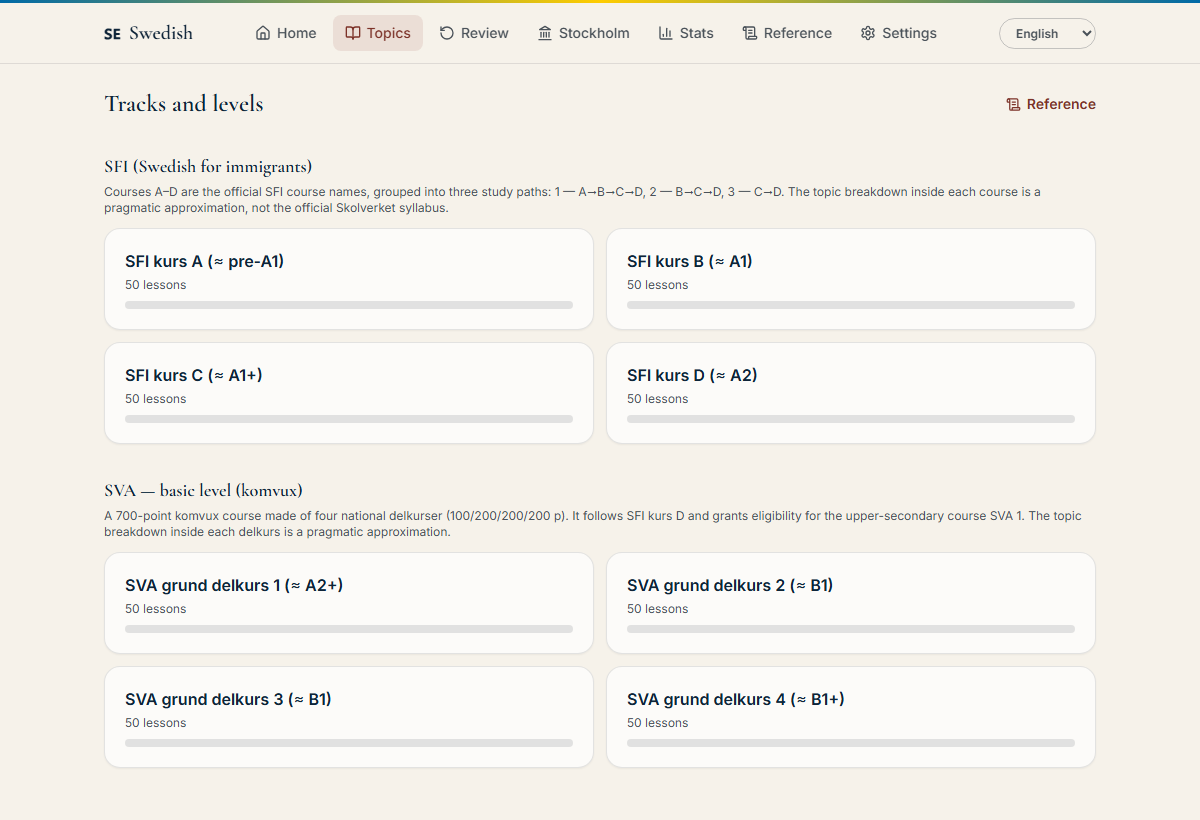
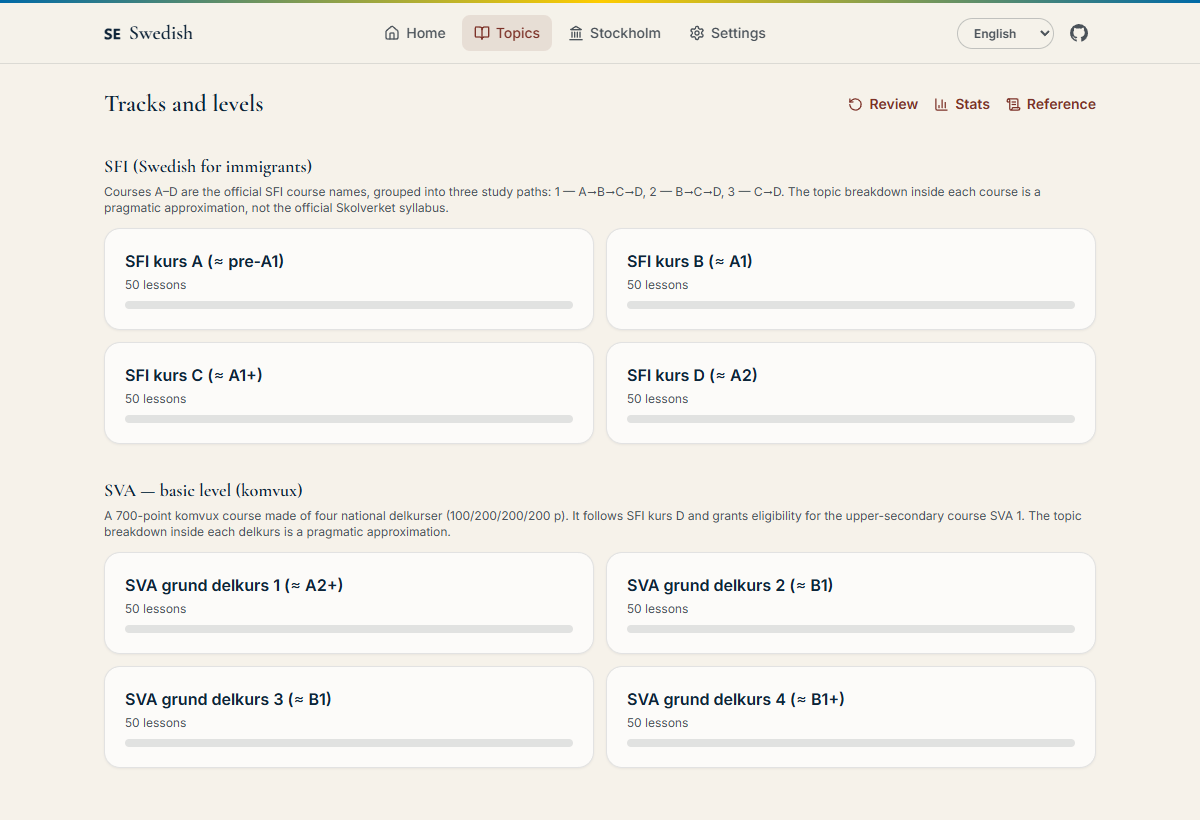
Update nav

diff --git a/scripts/screenshots.ts b/scripts/screenshots.ts
@@ -18,11 +18,11 @@ import { chromium, type Page } from 'playwright-core';
 import { BUILDING_PRICES, ERA_UNLOCK_XP } from '../src/city/economy';
 
 /**
- * `npm run screenshots` does everything; `-- city` or `-- eras` redoes only that half, which
- * matters because the citizens are mid-walk in every shot — re-running the whole set rewrites
- * ten PNGs that differ only in where the little figures happen to be standing.
+ * `npm run screenshots` does everything; `-- pages` or `-- eras` redoes only that half, which
+ * matters because the citizens are mid-walk in every era shot — re-running the whole set
+ * rewrites ten PNGs that differ only in where the little figures happen to be standing.
  */
-const only = process.argv[2] as 'city' | 'eras' | undefined;
+const only = process.argv[2] as 'pages' | 'eras' | undefined;
 
 const root = join(dirname(fileURLToPath(import.meta.url)), '..');
 const outDir = join(root, 'docs', 'screenshots');
@@ -114,7 +114,7 @@ async function main() {
     await page.goto(`${BASE}/#/city`, { waitUntil: 'networkidle' });
     await settle(page);
 
-    for (const era of only === 'city' ? [] : [...eras].sort((a, b) => a.order - b.order)) {
+    for (const era of only === 'pages' ? [] : [...eras].sort((a, b) => a.order - b.order)) {
       await page.getByRole('button', { name: era.name.en, exact: true }).click();
       await settle(page);
       await page.locator('.city-scene').screenshot({ path: join(outDir, `city-${era.id}.png`) });
@@ -131,6 +131,16 @@ async function main() {
       await page.waitForTimeout(200);
       await page.screenshot({ path: join(outDir, 'city.png') });
       console.log('wrote city.png');
+
+      // The topics list, shown with no lesson progress — its own page so it can have its own
+      // height. (`quiz.png`, the third README shot, still has to be taken by hand: it needs a
+      // quiz run in a particular state rather than a route and a save.)
+      const tracks = await browser.newPage({ viewport: { width: 1200, height: 820 }, deviceScaleFactor: 1 });
+      await tracks.goto(`${BASE}/#/tracks`, { waitUntil: 'networkidle' });
+      await tracks.waitForTimeout(400);
+      await tracks.screenshot({ path: join(outDir, 'tracks.png') });
+      await tracks.close();
+      console.log('wrote tracks.png');
     }
   } finally {
     await browser.close();

diff --git a/src/components/layout/AppShell.tsx b/src/components/layout/AppShell.tsx
@@ -1,14 +1,6 @@
 import { Suspense, useEffect } from 'react';
 import { NavLink, Outlet } from 'react-router-dom';
-import {
-  BarChart3,
-  BookOpen,
-  Home,
-  Landmark,
-  RotateCcw,
-  ScrollText,
-  Settings as SettingsIcon,
-} from 'lucide-react';
+import { BookOpen, Home, Landmark, Settings as SettingsIcon } from 'lucide-react';
 import { useT } from '@/i18n';
 import { useAppStore } from '@/store/appStore';
 import { useCloudSync } from '@/store/useCloudSync';
@@ -77,15 +69,16 @@ function GithubMark({ className }: { className?: string }) {
 
 const REPO_URL = 'https://github.com/gray0072/swedish';
 
+/**
+ * The core loop, and nothing else: seven items overflowed the header row, and the three that
+ * are not part of the loop — review, stats, reference — now live on the Topics page and at the
+ * foot of the Home page instead (`secondaryNav.ts`). The same four items serve the desktop row
+ * and the mobile bottom bar.
+ */
 const navItems = [
   { to: '/', icon: Home, key: 'nav.home' as const, end: true },
   { to: '/tracks', icon: BookOpen, key: 'nav.tracks' as const, end: false },
-  { to: '/review', icon: RotateCcw, key: 'nav.review' as const, end: false },
   { to: '/city', icon: Landmark, key: 'nav.city' as const, end: false },
-  // Secondary destinations, not part of the core loop — desktop nav only so the mobile
-  // bottom bar (prime real estate) stays reserved for the five primary destinations.
-  { to: '/stats', icon: BarChart3, key: 'nav.stats' as const, end: false, desktopOnly: true },
-  { to: '/reference', icon: ScrollText, key: 'nav.reference' as const, end: false, desktopOnly: true },
   { to: '/settings', icon: SettingsIcon, key: 'nav.settings' as const, end: false },
 ];
 
@@ -148,9 +141,7 @@ export default function AppShell() {
           </div>
         </div>
         <nav className="flex justify-between border-t border-granite/10 sm:hidden">
-          {navItems
-            .filter((item) => !item.desktopOnly)
-            .map(({ to, icon: Icon, key, end }) => (
+          {navItems.map(({ to, icon: Icon, key, end }) => (
             <NavLink
               key={to}
               to={to}

diff --git a/src/components/city/BuildingCard.tsx b/src/components/city/BuildingCard.tsx
@@ -11,7 +11,14 @@ import { buildingCostAt } from '@/city/economy';
 import { PerkLine } from './PerkDisplay';
 import { playBuild, playUpgrade } from '@/lib/sound';
 
-export default function BuildingCard({ building }: { building: Building }) {
+/**
+ * `preview` is the read-only variant shown for an era the learner has not unlocked yet
+ * (CityPage): same name, description and perk, but nothing to press — the cost is stated as
+ * plain text, because a button that can only ever be disabled reads as broken rather than as
+ * locked. Requirements still show: half of what makes a future era interesting is seeing the
+ * order things have to be built in.
+ */
+export default function BuildingCard({ building, preview = false }: { building: Building; preview?: boolean }) {
   const t = useT();
   const lang = useLanguage();
   const wallet = useWallet();
@@ -41,7 +48,24 @@ export default function BuildingCard({ building }: { building: Building }) {
       )}
       <PerkLine perk={building.perk} level={level} />
 
-      {missingRequirement ? (
+      {preview ? (
+        <div className="mt-1 space-y-1 text-xs text-granite/80 dark:text-birch/50">
+          <p className="font-semibold">
+            {t('city.cost')}: {formatNumber(cost)} 🪙
+            {building.maxLevel > 1 && (
+              <span className="font-normal">
+                {' '}
+                · {t('city.maxLevel')} {building.maxLevel}
+              </span>
+            )}
+          </p>
+          {missingRequirement && (
+            <p>
+              {t('city.requires')}: {resolveLocalized(getBuilding(missingRequirement)?.name, lang)}
+            </p>
+          )}
+        </div>
+      ) : missingRequirement ? (
         <p className="mt-1 text-xs text-granite/70 dark:text-birch/40">
           {t('city.requires')}: {resolveLocalized(getBuilding(missingRequirement)?.name, lang)}
         </p>

diff --git a/src/pages/TracksPage.tsx b/src/pages/TracksPage.tsx
@@ -1,6 +1,6 @@
 import { Link } from 'react-router-dom';
-import { ScrollText } from 'lucide-react';
 import { useT } from '@/i18n';
+import { SECONDARY_NAV } from '@/components/layout/secondaryNav';
 import { useLanguage } from '@/store/settings';
 import { getTracks, getLessonsForLevel } from '@/content/registry';
 import { resolveLocalized } from '@/content/schema';
@@ -15,15 +15,23 @@ export default function TracksPage() {
 
   return (
     <div className="space-y-8">
-      <div className="flex items-center justify-between">
+      {/* Review, stats and the reference used to be header tabs; the header could not hold
+          seven of them, so they live here — next to the reference link that was already here
+          (`secondaryNav.ts`). */}
+      <div className="flex flex-wrap items-center justify-between gap-x-4 gap-y-2">
         <h1 className="text-2xl font-semibold">{t('tracks.title')}</h1>
-        <Link
-          to="/reference"
-          className="flex items-center gap-1.5 text-sm font-semibold text-falu hover:underline dark:text-gold"
-        >
-          <ScrollText size={15} aria-hidden="true" />
-          {t('tracks.referenceLink')}
-        </Link>
+        <nav className="flex flex-wrap items-center gap-x-4 gap-y-1">
+          {SECONDARY_NAV.map(({ to, icon: Icon, key }) => (
+            <Link
+              key={to}
+              to={to}
+              className="flex items-center gap-1.5 text-sm font-semibold text-falu hover:underline dark:text-gold"
+            >
+              <Icon size={15} aria-hidden="true" />
+              {t(key)}
+            </Link>
+          ))}
+        </nav>
       </div>
       {tracks.map((track) => (
         <section key={track.id}>

diff --git a/src/pages/HomePage.tsx b/src/pages/HomePage.tsx
@@ -1,6 +1,7 @@
 import { Link } from 'react-router-dom';
 import { Landmark, RotateCcw } from 'lucide-react';
 import { useT } from '@/i18n';
+import { SECONDARY_NAV } from '@/components/layout/secondaryNav';
 import { useLanguage } from '@/store/settings';
 import { useAllLessonProgress, useDueReviewCount } from '@/store/progress';
 import { useCurrentEra, useOwnedBuildingCount, totalBuildingsCount } from '@/store/city';
@@ -77,13 +78,17 @@ export default function HomePage() {
         <span className="text-sm font-semibold text-falu dark:text-gold">{t('home.city.cta')} →</span>
       </Link>
 
+      {/* The way in to everything the header no longer carries (`secondaryNav.ts`), repeated
+          here so it is reachable from the first screen and not only from Topics. */}
       <div className="flex flex-wrap justify-center gap-x-4 gap-y-1 text-center text-sm font-semibold text-falu dark:text-gold">
         <Link to="/tracks" className="hover:underline">
           {t('home.browseTracks')} →
         </Link>
-        <Link to="/stats" className="hover:underline">
-          {t('nav.stats')} →
-        </Link>
+        {SECONDARY_NAV.map(({ to, key }) => (
+          <Link key={to} to={to} className="hover:underline">
+            {t(key)} →
+          </Link>
+        ))}
       </div>
     </div>
   );

diff --git a/src/pages/CityPage.tsx b/src/pages/CityPage.tsx
@@ -77,6 +77,24 @@ export default function CityPage() {
         <p className="card !border-l-4 !border-l-aurora text-sm">{t('city.eraIntro.future')}</p>
       )}
 
+      {/* A locked era is not a blank page: its buildings are listed read-only, so the XP that
+          opens it buys something the learner has already seen and wants. History cards stay
+          hidden — those are the reward for actually getting here. */}
+      {selectedEra && !unlocked && buildings.length > 0 && (
+        <section className="space-y-3">
+          <KurbitsDivider />
+          <div>
+            <h2 className="font-display text-lg font-semibold">{t('city.preview.title')}</h2>
+            <p className="mt-1 text-xs text-granite dark:text-birch/50">{t('city.preview.hint')}</p>
+          </div>
+          <div className="grid gap-3 opacity-80 sm:grid-cols-2 lg:grid-cols-3">
+            {buildings.map((b) => (
+              <BuildingCard key={b.id} building={b} preview />
+            ))}
+          </div>
+        </section>
+      )}
+
       {unlocked && selectedEra && (
         <>
           <EraFrame>{resolveLocalized(selectedEra.name, lang)}</EraFrame>

diff --git a/src/components/layout/secondaryNav.ts b/src/components/layout/secondaryNav.ts
@@ -1,0 +1,22 @@
+import { BarChart3, RotateCcw, ScrollText, type LucideIcon } from 'lucide-react';
+import type { I18nKey } from '@/i18n';
+
+/**
+ * Destinations that are not part of the core loop (home → topics → city) and therefore do not
+ * earn a slot in the header: the header has to stay on one line down to a phone, and seven
+ * items did not. They live as links on the pages a learner is already on — the Topics page
+ * header and the foot of the Home page — which is where the reference link already lived.
+ *
+ * Their routes are unchanged; only the way in moved.
+ */
+export interface SecondaryNavItem {
+  to: string;
+  icon: LucideIcon;
+  key: I18nKey;
+}
+
+export const SECONDARY_NAV: SecondaryNavItem[] = [
+  { to: '/review', icon: RotateCcw, key: 'nav.review' },
+  { to: '/stats', icon: BarChart3, key: 'nav.stats' },
+  { to: '/reference', icon: ScrollText, key: 'nav.reference' },
+];

diff --git a/CHANGELOG_ru.md b/CHANGELOG_ru.md
@@ -683,3 +683,17 @@ SFI kurs A → B → C → D  →  SVA grund delkurs 1 → 2 → 3 → 4  →  S
   открытыми эпохами и всеми зданиями на максимуме и управляет установленным Chrome через
   `playwright-core`. Скриншот города для README переснят так же, и добавлено десять новых —
   по одному на эпоху, каждая показана достроенной.
+- **Ссылка на репозиторий** — в правом верхнем углу шапки, рядом с выбором языка: значок
+  GitHub, вшитый одним SVG-путём, а не взятый из `lucide-react`, где бренд-иконки помечены
+  deprecated и будут удалены в v1.0.
+- **Меню в шапке больше не вылезает.** В нём было семь пунктов, и места не хватало, поэтому
+  три, не входящие в основной цикл — повторение, статистика, справочник, — из неё убраны.
+  Теперь это ссылки в шапке страницы «Темы», рядом со ссылкой на справочник, которая там уже
+  была, и они же продублированы внизу главной страницы; общий список — `secondaryNav.ts`. В
+  шапке и в нижней панели на телефоне остались главная, темы, Стокгольм и настройки. Ни один
+  маршрут не изменился — переехал только вход.
+- **Закрытая эпоха теперь показывает, что в ней появится.** Раньше при выборе неоткрытой
+  эпохи была одна строчка «нужно больше XP» и больше ничего; теперь под ней перечислены её
+  здания в режиме просмотра — название, описание, бонус, цена, предел уровня и что нужно
+  построить сначала, без единой кнопки. Исторические карточки по-прежнему скрыты: они
+  остаются наградой за то, что до эпохи добрался.

diff --git a/CHANGELOG.md b/CHANGELOG.md
@@ -680,3 +680,17 @@ SFI kurs A → B → C → D  →  SVA grund delkurs 1 → 2 → 3 → 4  →  S
   and every building at its cap, and drives the installed Chrome through `playwright-core`.
   The README's city shot was redone this way, and ten new ones added — one per era, each
   showing that era finished.
+- **A link to the repository** sits in the top-right corner of the header, next to the language
+  select: the GitHub mark, inlined as one SVG path rather than imported from `lucide-react`,
+  whose brand icons are deprecated upstream and due to be removed in v1.0.
+- **The header menu no longer overflows.** It held seven destinations and ran out of room, so
+  the three that are not part of the core loop — review, stats, reference — moved out of it.
+  They now sit as links in the Topics page header, beside the reference link that was already
+  there, and are repeated at the foot of the Home page; `secondaryNav.ts` is the one list both
+  render. The header and the mobile bottom bar are left with home, topics, Stockholm and
+  settings. No route changed — only the way in.
+- **A locked era now shows what it will bring.** Picking an era the learner has not unlocked
+  used to give a single "needs more XP" line and nothing else; it now lists that era's
+  buildings below it in a read-only variant of the building card — name, description, perk,
+  cost, level cap and what has to be built first, with no button to press. History cards stay
+  hidden: those remain the reward for getting there.

diff --git a/README.md b/README.md
@@ -35,10 +35,11 @@ four are informed guesses ([SPEC.md](SPEC.md) §12.8).
 | ![The Green City](docs/screenshots/city-green.png)<br>**7. The Green City** | ![The Connected City](docs/screenshots/city-connected.png)<br>**8. The Connected City** | ![The Floating City](docs/screenshots/city-floating.png)<br>**9. The Floating City** |
 | ![The Star City](docs/screenshots/city-stellar.png)<br>**10. The Star City** | | |
 
-All of these are generated from the running app by `npm run screenshots`
-([scripts/screenshots.ts](scripts/screenshots.ts)) — it boots the dev server, seeds a
-throwaway finished save, and drives your installed Chrome. Add `-- city` or `-- eras` to
-redo only that half. Re-run it whenever the scene changes; never touch the PNGs by hand.
+Every shot above except the quiz one is generated from the running app by
+`npm run screenshots` ([scripts/screenshots.ts](scripts/screenshots.ts)) — it boots the dev
+server, seeds a throwaway finished save, and drives your installed Chrome. Add `-- pages` or
+`-- eras` to redo only that half. Re-run it whenever the scene or the chrome around it
+changes; never touch those PNGs by hand.
 
 ## Features
 
